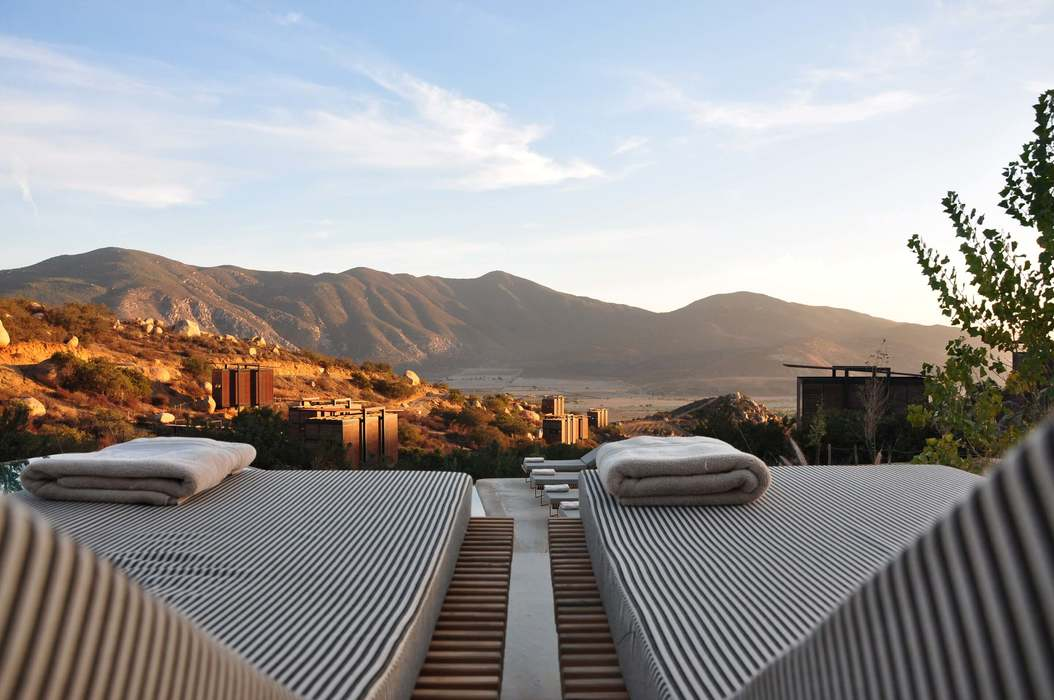
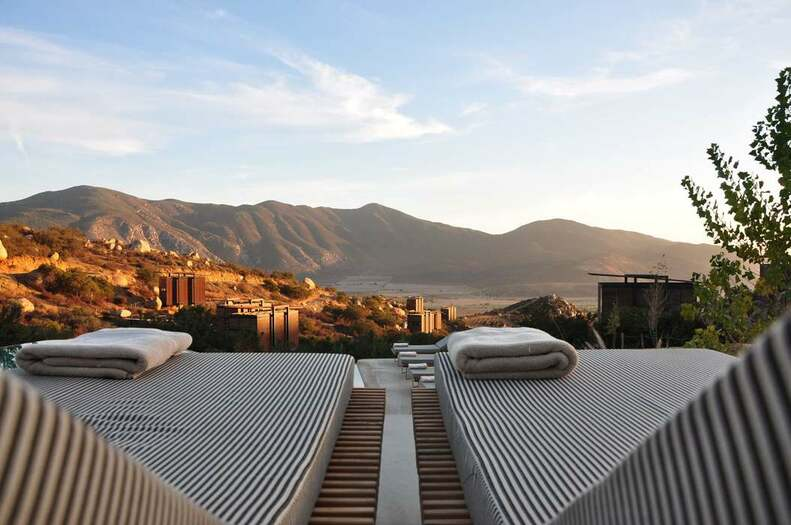
webp to jpg

diff --git a/index.html b/index.html
@@ -174,42 +174,42 @@
               <div class="swiper-slide hotel-slider__item">
                 <img
                   class="swiper-slide__photo"
-                  src="img/slide.webp"
+                  src="img/slide.jpg"
                   alt="slide"
                 />
               </div>
               <div class="swiper-slide hotel-slider__item">
                 <img
                   class="swiper-slide__photo"
-                  src="img/slide1.webp"
+                  src="img/slide1.jpg"
                   alt="slide"
                 />
               </div>
               <div class="swiper-slide hotel-slider__item">
                 <img
                   class="swiper-slide__photo"
-                  src="img/slide2.webp"
+                  src="img/slide2.jpg"
                   alt="slide"
                 />
               </div>
               <div class="swiper-slide hotel-slider__item">
                 <img
                   class="swiper-slide__photo"
-                  src="img/slide3.webp"
+                  src="img/slide3.jpg"
                   alt="slide"
                 />
               </div>
               <div class="swiper-slide hotel-slider__item">
                 <img
                   class="swiper-slide__photo"
-                  src="img/slide4.webp"
+                  src="img/slide4.jpg"
                   alt="slide"
                 />
               </div>
               <div class="swiper-slide hotel-slider__item">
                 <img
                   class="swiper-slide__photo"
-                  src="img/slide5.webp"
+                  src="img/slide5.jpg"
                   alt="slide"
                 />
               </div>
@@ -300,7 +300,7 @@
             <div class="card-box-1">
               <span class="flash-offer">Flash Offer</span>
               <img
-                src="img/packadges/blueHeaven.webp"
+                src="img/packadges/blueHeaven.jpg"
                 alt="Hotel: Blue Heaven"
                 class="card-box-1__image1"
               />
@@ -359,7 +359,7 @@
             <div class="card-box-univers">
               <span class="flash-offer">Flash Offer</span>
               <img
-                src="img/packadges/belleMare.webp"
+                src="img/packadges/belleMare.jpg"
                 alt="Belle Mare Hotel"
                 class="card-box-univers card-box-univers__image"
               />
@@ -407,7 +407,7 @@
             <div class="card-box-univers">
               <span class="flash-offer">Flash Offer</span>
               <img
-                src="img/packadges/luxuryPalace.webp"
+                src="img/packadges/luxuryPalace.jpg"
                 alt="Belle Mare Hotel"
                 class="card-box-univers card-box-univers__image"
               />
@@ -455,7 +455,7 @@
             <div class="card-box-univers">
               <span class="flash-offer">Flash Offer</span>
               <img
-                src="img/packadges/whitePalace.webp"
+                src="img/packadges/whitePalace.jpg"
                 alt="Belle Mare Hotel"
                 class="card-box-univers card-box-univers__image"
               />
@@ -503,7 +503,7 @@
             <div class="card-box-univers">
               <span class="flash-offer">Flash Offer</span>
               <img
-                src="img/packadges/fiveStar.webp"
+                src="img/packadges/fiveStar.jpg"
                 alt="Belle Mare Hotel"
                 class="card-box-univers card-box-univers__image"
               />
@@ -785,7 +785,7 @@
         <div class="activities-wrapper">
           <div class="card activities__card">
             <img
-              src="img/activity-1.webp"
+              src="img/activity-1.jpg"
               alt="The curious corner of chamarel"
               class="card__image"
             />
@@ -801,7 +801,7 @@
           <!--/.card -->
           <div class="card activities__card">
             <img
-              src="img/activity-2.webp"
+              src="img/activity-2.jpg"
               alt="Gymkhana club golf course"
               class="card__image"
             />
@@ -817,7 +817,7 @@
           <!--/.card -->
           <div class="card activities__card">
             <img
-              src="img/activity-3.webp"
+              src="img/activity-3.jpg"
               alt="Tamarind falls hiking trip - full day"
               class="card__image"
             />
@@ -833,7 +833,7 @@
           <!--/.card -->
           <div class="card activities__card">
             <img
-              src="img/activity-4.webp"
+              src="img/activity-4.jpg"
               alt="The blue marine discovery quest"
               class="card__image"
             />
